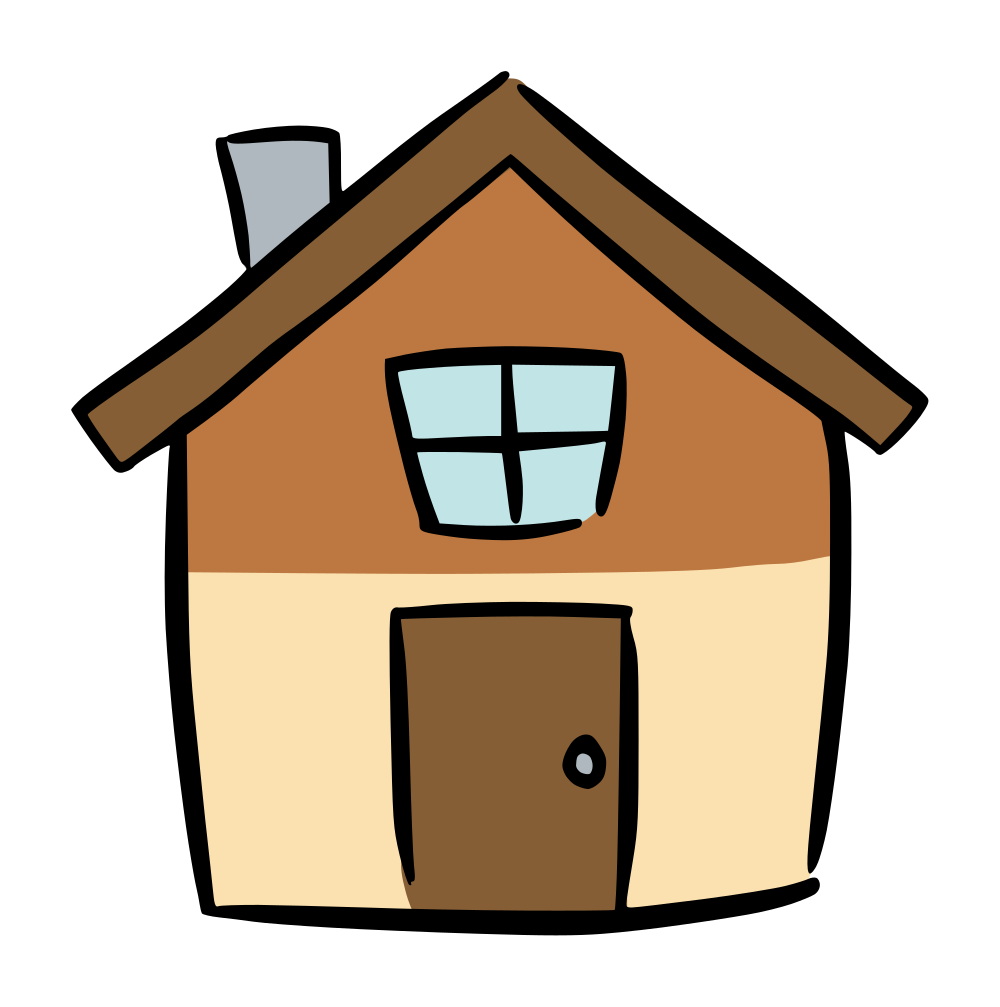
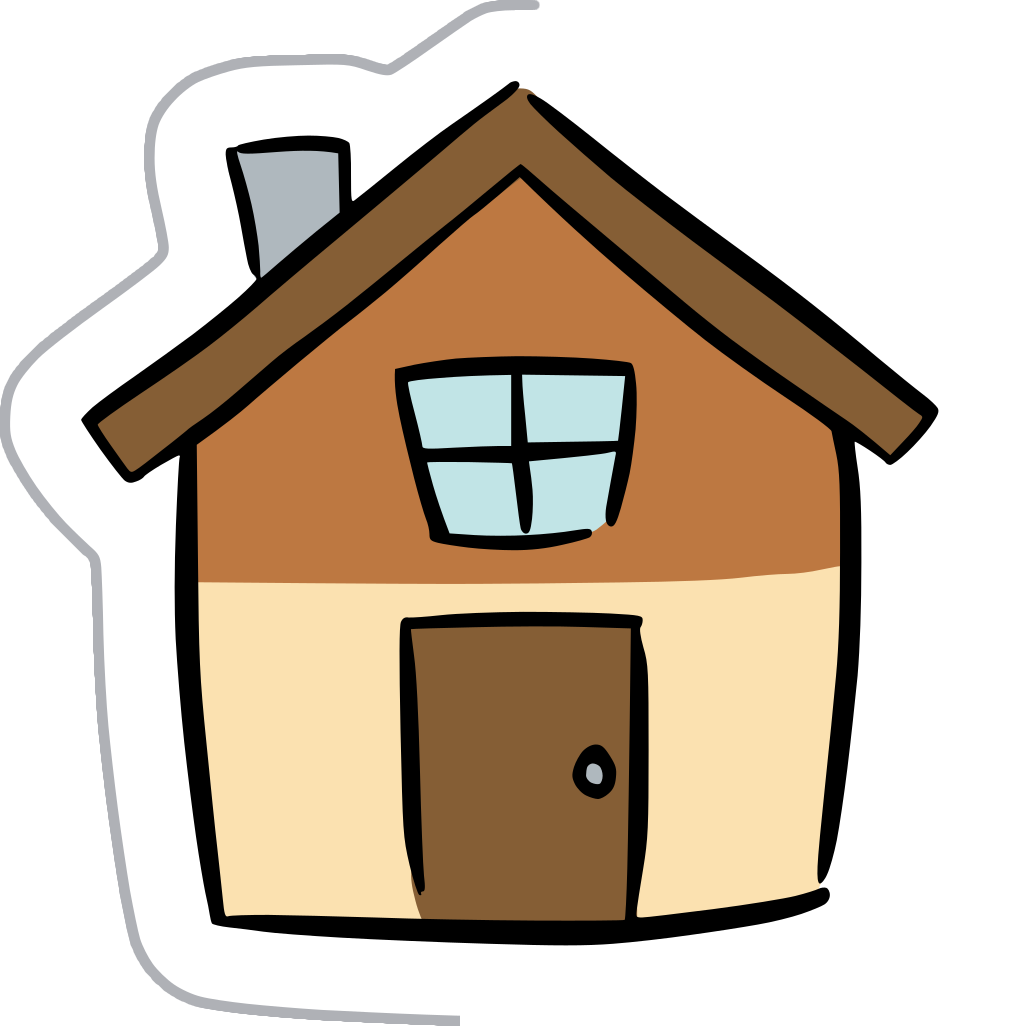
added graphic and user location to browsing

diff --git a/house/navigation/screens/Houses.js b/house/navigation/screens/Houses.js
@@ -12,8 +12,8 @@ import PinIcon from '../../assets/pin.js';
 import BellIcon from '../../assets/bell.js'
 import DotsIcon from '../../assets/dots.js';
 import Store from './../../Store';
-//import HouseProfileImg from '../../assets/houseProfileImg.jpg'
-//import HouseGraphicBorder from '../../assets/browseHouse-Border.png'
+import HouseProfileImg from '../../assets/houseProfileImg.jpg';
+import HouseGraphicBorder from '../../assets/browseHouse-Border.png';
 
 import houseData from '../../house-data.json';
 
@@ -43,7 +43,7 @@ const ProfileItem = ({ item }) => {
 
 function BrowsingScreen({navigation}) {
     const [selected, setSelected] = useState('');
-    
+    const [user, ,updateUser] = Store.useState("user");
     const [search, setSearch] = useState('');
     function updateSearch (search) {
         setSearch(search);
@@ -62,6 +62,12 @@ function BrowsingScreen({navigation}) {
                 onChangeText={(search) => updateSearch(search)}
                 value={search}
             />
+            <SafeAreaView style={browseStyles.location}>
+                <SafeAreaView style={{marginRight: 10}}>
+                    <PinIcon color='white' width='12' height='14'/>
+                </SafeAreaView>
+                <Text style={browseStyles.locationText}>{user.location}</Text>
+            </SafeAreaView>
             <FlatList 
                 style={browseStyles.housesFlatList}
                 data={houseData}
@@ -70,11 +76,15 @@ function BrowsingScreen({navigation}) {
                     <SafeAreaView>
                         <Pressable style={browseStyles.houseListing} onPress={() => navigation.navigate("BrowseHouseLanding", {key: item.key})}>
                             <Pressable style={browseStyles.tempIconBackground}>
-                                <ProfileIcon style={styles.profileIcon} color='white' size='24'/>
                             </Pressable>
                             <SafeAreaView style={browseStyles.houseInfo}>
                                 <Text style={browseStyles.houseName}>{item.houseName}</Text>
-                                <Text style={browseStyles.milesAway}>{item.milesAway} miles away</Text>
+                                <SafeAreaView style={{flexDirection: 'row', marginTop: 5}}>
+                                    <SafeAreaView style={styles.pinIcon}>
+                                        <PinIcon color='black' width='12' height='14'/>
+                                    </SafeAreaView>
+                                    <Text style={browseStyles.milesAway}>{item.milesAway} miles away</Text>
+                                </SafeAreaView>
                                 <FlatList
                                     style={{flexDirection : "row", flexWrap : "wrap"}}
                                     data={item.tags}
@@ -82,6 +92,10 @@ function BrowsingScreen({navigation}) {
                                     renderItem={({item}) => <BrowseItem item={item}/> }
                                 />
                             </SafeAreaView> 
+                        </Pressable>
+                        <Pressable style = {{left: 20, top: 10, position: 'absolute'}} onPress={() => navigation.navigate("BrowseHouseLanding", {key: item.key})}>
+                            <Image style={browseStyles.houseGraphic} source={HouseGraphicBorder}/>
+                            <Image style={browseStyles.houseProfilePicture} source={HouseProfileImg}/>
                         </Pressable>
                     </SafeAreaView>
                 }
@@ -679,11 +693,22 @@ const browseStyles = StyleSheet.create({
         flex: 1,
         backgroundColor: '#40187B'
     },
+    location: {
+        flexDirection: 'row',
+        alignItems: 'center',
+        justifyContent: 'center',
+        marginVertical: 10,
+        color: 'white',
+        height: 20
+    },
+    locationText: {
+        color: 'white'
+    },
     housesFlatList: {
-        paddingTop: 20,
     },
     houseListing: {
-        marginHorizontal: 20,
+        marginRight: 20,
+        marginLeft: 65,
         marginVertical: 10,
         backgroundColor: '#fff',
         borderWidth: 1,
@@ -696,15 +721,26 @@ const browseStyles = StyleSheet.create({
     houseInfo: {
         flex: 1
     },
+    houseGraphic: {
+        width: 100,
+        height: 100,
+    },
+    houseProfilePicture: {
+        width: 65,
+        height: 65,
+        left: 70,
+        bottom: 80,
+        borderRadius: 33,
+        borderWidth: 3,
+        borderColor: '#FB749B'
+    },
     tempIconBackground: {
-        backgroundColor: '#47C8A7',
-        borderRadius: 100, 
         justifyContent: 'center',
         alignItems: 'center',
         padding: 31,
         width: 60,
         height: 60,
-        marginRight: 10
+        marginRight: 30
     },
     button: {
         height: 45,
@@ -714,6 +750,9 @@ const browseStyles = StyleSheet.create({
         color: "#FDC765",
         borderRadius: 24,
         borderWidth: 1,
+    },
+    milesAway: {
+        marginVertical: 1
     },
     tagPanel: {
         flex: 1,
@@ -725,7 +764,8 @@ const browseStyles = StyleSheet.create({
         borderWidth: 1,
         borderColor: '#FFEBC6',
         borderRadius: 24,
-        padding: 10
+        paddingHorizontal: 10,
+        paddingVertical: 5,
     },
     tagText: {
         textAlign: 'center',
